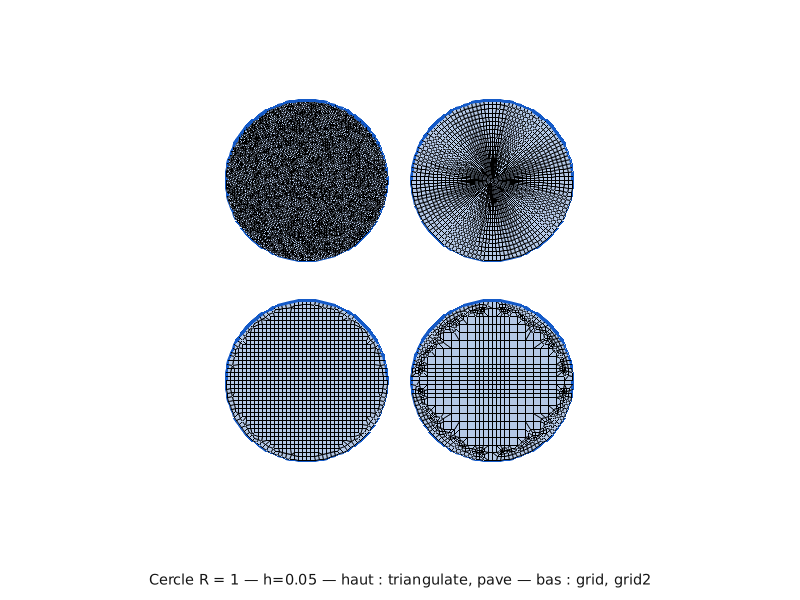
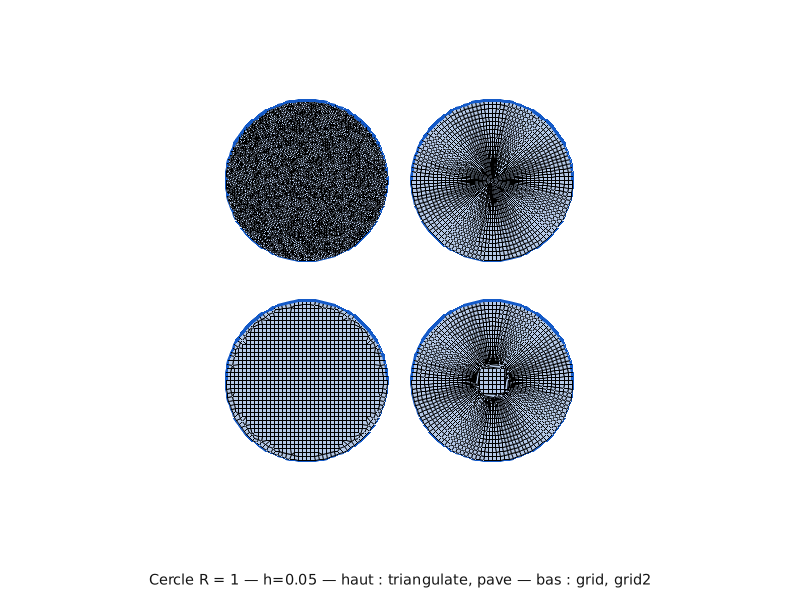
feat(grid2): abandonner au front le vide que le contour ne borde pas
L'étape 3.2 comblait tout intervalle large en le coupant en deux jusqu'à ce
qu'il ne dépasse plus deux fois le pas moyen du contour. Deux défauts :
la bissection atterrit *exactement* sur deux fois dès que le vide vaut une
puissance de deux fois la moyenne — dix mailles de la maison sortaient ainsi
deux fois trop hautes — et surtout, remplir ce vide ne crée pas de cœur.

Un vide que le contour ne borde pas est un vide qu'aucune paroi ne dicte :
les rangées qu'on y pose n'existent que pour être érodées par l'oblique qui
les traverse, et elles morcellent le travail du front au lieu de lui donner
une région propre. Entre deux et trois fois la moyenne, l'intervalle est
donc coupé en mailles entières ; **au-delà, plus rien n'est posé** et
`classify` rend la région au front d'un seul tenant.

Mesuré sur les onze formes de la batterie, tout est identique au bit près
sauf deux :

  maison, toit à deux pentes   5 triangles → 1, p5 0,644 → 0,676,
                               pire 0,479 → 0,475, et plus aucune maille
                               à deux fois la moyenne
  cercle R=1                   0,344 → 0,005

Les deux créneaux, les trois L, les deux plaques, le rectangle et le carré
arrondi ne bougent pas — vérifié aux deux finesses, celle des figures et
celle d'usage à 16 000 mailles.

Le cercle est le prix, et il est assumé : ses vides valent quinze fois le pas
moyen contre huit pour le toit de la maison, donc aucun seuil ne sépare les
[…]

Changed region(s): [[0.5, 0.48, 0.7188, 0.78]]

diff --git a/src/ops/mesh/paving/grid2.rs b/src/ops/mesh/paving/grid2.rs
@@ -181,8 +181,8 @@ impl Grid {
         let mean = (mean_of(step_x, x1 - x0), mean_of(step_y, y1 - y0));
 
         let mut grid = Grid {
-            xs: halve_the_wide(tidy_lines(sx), mean.0),
-            ys: halve_the_wide(tidy_lines(sy), mean.1),
+            xs: split_or_leave(tidy_lines(sx), mean.0),
+            ys: split_or_leave(tidy_lines(sy), mean.1),
             moved: HashMap::new(),
             mean,
         };
@@ -403,29 +403,38 @@ fn tidy_lines(mut v: Vec<f64>) -> Vec<f64> {
     v
 }
 
-/// Step 3.2: halve every interval wider than twice the mean, until none is.
+/// Step 3.2: cut an interval the contour left wide, or give it up.
 ///
 /// `mean` is the step the contour itself carries along this axis.
-fn halve_the_wide(mut lines: Vec<f64>, mean: f64) -> Vec<f64> {
+///
+/// Between two and three means, the gap is cut into whole cells of about the
+/// mean. **Beyond three, nothing is added**: a gap that wide is one the contour
+/// says nothing at all about, and filling it with rows only creates cells that
+/// exist to be eroded by whatever oblique boundary crosses them — the front
+/// then gets its work broken into slivers instead of one clean region.
+/// [`classify`] drops those cells from the core, and the front takes the region
+/// whole.
+///
+/// Measured on a house whose roof leaves 0.40 of empty height above its walls
+/// at a mean of 0.05: filling that gap cost five triangles where giving it up
+/// costs one, and the fifth percentile goes from 0.644 to 0.676.
+fn split_or_leave(lines: Vec<f64>, mean: f64) -> Vec<f64> {
     if lines.len() < 2 {
         return lines;
     }
-    loop {
-        let mut out = Vec::with_capacity(lines.len());
-        let mut split = false;
-        for w in lines.windows(2) {
-            out.push(w[0]);
-            if w[1] - w[0] > 2.0 * mean {
-                out.push(0.5 * (w[0] + w[1]));
-                split = true;
+    let mut out = vec![lines[0]];
+    for w in lines.windows(2) {
+        let (a, b) = (w[0], w[1]);
+        let span = b - a;
+        if span > 2.0 * mean && span <= 3.0 * mean {
+            let k = ((span / mean).round() as usize).max(2);
+            for i in 1..k {
+                out.push(a + span * i as f64 / k as f64);
             }
         }
-        out.push(lines[lines.len() - 1]);
-        lines = out;
-        if !split {
-            return lines;
-        }
+        out.push(b);
     }
+    out
 }
 
 /// Fill `domain` with grid cells and write them into `fab`.
@@ -752,6 +761,13 @@ fn classify(grid: &Grid, anchors: &Anchors, domain: &Domain, nx: usize, ny: usiz
     for j in 0..ny {
         for i in 0..nx {
             if cut[j * nx + i] {
+                continue;
+            }
+            // A cell `split_or_leave` gave up on: the contour said nothing
+            // about that stretch, so the front gets the region whole rather
+            // than a stack of rows that only exist to be eroded.
+            let (w, h) = (grid.xs[i + 1] - grid.xs[i], grid.ys[j + 1] - grid.ys[j]);
+            if w > 2.0 * grid.mean.0 || h > 2.0 * grid.mean.1 {
                 continue;
             }
             let q = anchors.cell(grid, i, j);

diff --git a/src/ops/mesh/grid_surface2.rs b/src/ops/mesh/grid_surface2.rs
@@ -42,16 +42,17 @@
 //! | L whose sides disagree by one node | 0.307 | **0.606** |
 //! | crenellated profile, base cut under each bar | 0.382 | **0.916** |
 //! | crenellated profile, base in one run | 0.287 | **0.651** |
-//! | house with a pitched roof | 0.304 | **0.479** |
+//! | house with a pitched roof | 0.304 | **0.475**, 1 triangle against 11 |
 //! | square with one rounded corner | 0.266 | **0.308** |
-//! | circle | **0.288**, 8 triangles | 0.344, 40 triangles |
+//! | circle | **0.288**, p5 **0.796** | 0.005 — do not use |
 //!
 //! So: **`grid_surface2` for a rectilinear shape**, all the more so when its
 //! sides were not cut at the corners facing them, and **`grid_surface` for
 //! anything curved**, where following the contour's nodes means following the
-//! accident of where its vertices fell. On a curve the two are close and both
-//! are beaten by `triangulate_surface`; the book's *Mailler une géométrie*
-//! page compares all four side by side.
+//! accident of where its vertices fell. On a curve `grid_surface2` is not a
+//! candidate at all: nothing dictates a line over most of a circle, the empty
+//! gaps run to fifteen times the mean step, and the core is given up. The
+//! book's *Mailler une géométrie* page compares all four side by side.
 //!
 //! ## When it degrades
 //!

diff --git a/src/py/ops/mesh.rs b/src/py/ops/mesh.rs
@@ -940,9 +940,10 @@ pub fn grid_surface(
 /// where its vertices happened to fall. Measured worst cell, `grid_surface`
 /// then `grid_surface2`: plate with a step off the grid 0.405 / 0.963, L with
 /// arbitrary dimensions 0.437 / 0.979, crenellated profile with its base in one
-/// run 0.287 / 0.651, house with a pitched roof 0.304 / 0.479, circle
-/// 0.288 / 0.344 but 8 triangles against 40. The book's *Mailler une géométrie*
-/// page puts all four surface meshers side by side.
+/// run 0.287 / 0.651, house with a pitched roof 0.304 / 0.475. On a **circle**
+/// the order reverses hard — 0.288 against 0.005 — and `grid_surface2` should
+/// not be used: nothing dictates a grid line over most of a curve. The book's
+/// *Mailler une géométrie* page puts all four surface meshers side by side.
 ///
 /// `size` and `band` mean what they mean for `grid_surface`.
 #[cfg_attr(feature = "stub-gen", pyo3_stub_gen::derive::gen_stub_pyfunction)]

diff --git a/book/src/mailler.md b/book/src/mailler.md
@@ -132,17 +132,26 @@ Ici le classement s'inverse, et c'est le seul endroit où il le fait.
 
 | forme | | triangulate | pave | grid | grid2 |
 |---|---|---:|---:|---:|---:|
-| maison | mailles | 1 723 | 621 | 477 | **415** |
-| | pire | 0,484 | **0,491** | 0,304 | 0,479 |
+| maison | mailles | 1 723 | 621 | 477 | **454** |
+| | pire | 0,484 | **0,491** | 0,304 | 0,475 |
 | carré arrondi | mailles | 1 866 | 678 | 445 | **420** |
 | | pire | **0,474** | 0,360 | 0,266 | 0,308 |
-| cercle R = 1 | mailles | 6 114 | 2 339 | 1 260 | **1 132** |
-| | pire | **0,424** | 0,031 | 0,288 | 0,344 |
+| cercle R = 1 | mailles | 6 114 | 2 339 | **1 260** | 2 044 |
+| | pire | **0,424** | 0,031 | **0,288** | 0,005 |
 
 Une grille ne peut pas suivre une oblique : elle la découpe en escalier, et tout
 ce qui s'en approche est rendu au paveur frontal. Sur la maison, le pavage
 épouse les deux pentes du toit et l'emporte d'un cheveu ; sur le cercle,
 `triangulate_surface` est le meilleur des quatre.
+
+**Sur une forme sans direction dominante, `grid_surface2` n'est pas un
+candidat.** Il prend l'écartement de ses lignes sur le contour, et un cercle
+n'en dicte aucun : rien ne pose de ligne entre `y = 0,24` et `y = 1`, le vide y
+vaut quinze fois l'écartement moyen, et le cœur s'effondre — 0,005, une maille
+au bord de la dégénérescence. `grid_surface`, lui, rend 0,288 avec un 5ᵉ
+centile de 0,796, de loin le meilleur des quatre. **Sur une courbe, prenez
+`grid_surface`, ou `triangulate_surface` si la qualité du pire élément
+commande.**
 
 Le cercle mérite un mot de plus. `pave_surface` y tombe à **0,031** — ses
 rangées se rejoignent au centre en une étoile à quatre branches, et c'est cette
@@ -153,18 +162,24 @@ mais il ne monte jamais non plus.
 
 ### Ce qu'il faut retenir
 
-**Le coût en mailles est le classement le plus stable, et il ne s'inverse
-jamais** : `grid_surface2` ≤ `grid_surface` < `pave_surface` <
-`triangulate_surface`, avec un facteur quatre entre les extrêmes à qualité au
-moins égale sur toute forme rectilinéaire. Pour un calcul, c'est le facteur qui
-compte juste après la qualité.
+**Le coût en mailles est le classement le plus stable** : sur les dix formes
+rectilinéaires ou peu obliques, `grid_surface2` ≤ `grid_surface` <
+`pave_surface` < `triangulate_surface`, avec un facteur quatre entre les
+extrêmes à qualité au moins égale. Pour un calcul, c'est le facteur qui compte
+juste après la qualité. Le cercle est la seule exception, et il l'est dans les
+deux colonnes à la fois : `grid_surface2` y rend **plus** de mailles pour une
+qualité effondrée, ce qui est la façon la plus nette de dire qu'il n'est pas
+fait pour ça.
 
 En pratique :
 
 - **forme rectilinéaire** — `grid_surface2`, et d'autant plus si ses côtés
   n'ont pas été coupés aux angles qui leur font face ;
-- **forme courbe ou franchement oblique** — `triangulate_surface` si la qualité
-  du pire élément commande, `pave_surface` s'il faut des quadrangles ;
+- **forme courbe** — `triangulate_surface` si la qualité du pire élément
+  commande, `grid_surface` s'il faut des quadrangles ; **jamais
+  `grid_surface2`**, qui y perd son cœur ;
+- **forme franchement oblique** — `pave_surface`, dont les rangées épousent la
+  pente ;
 - **quadrangles obligatoires** — `pave_surface` accepte `all_quad=True` et
   refuse par une erreur claire un contour dont la parité l'interdit ;
 - **triangles voulus** — `triangulate_surface`, seul à en produire par
@@ -172,16 +187,22 @@ En pratique :
 
 ### Deux limites connues
 
-**Les rangées à deux fois la moyenne.** `grid_surface2` prend l'écartement de
-ses lignes sur le contour ; là où le contour ne dit rien — le triangle du toit
-de la maison, qu'aucune paroi verticale ne borde — il comble le vide en le
-coupant en deux jusqu'à ce que l'intervalle ne dépasse plus deux fois la
-moyenne. Quand ce vide vaut une puissance de deux fois la moyenne, la coupe
-atterrit **exactement** sur deux fois : dix mailles de la maison sortent ainsi
-deux fois plus hautes que les autres. C'est la borne haute admise, et la
-corriger en coupant d'emblée en parts égales a été essayé — le maillage empire,
-parce que ces rangées supplémentaires ne servent qu'à être érodées par
-l'oblique et morcellent le travail du front.
+**Un vide que le contour ne borde pas n'est pas maillé en grille.**
+`grid_surface2` prend l'écartement de ses lignes sur le contour ; là où le
+contour ne dit rien — le triangle du toit de la maison, qu'aucune paroi
+verticale ne borde — il coupe le vide en mailles entières tant qu'il ne dépasse
+pas **trois fois** l'écartement moyen, et **l'abandonne au front au-delà**.
+Remplir un tel vide de rangées ne crée pas du cœur : ces rangées n'existent que
+pour être érodées par l'oblique qui les traverse, et elles morcellent le travail
+du front au lieu de lui donner une région propre. Mesuré sur la maison :
+l'abandon coûte **un** triangle là où le remplissage en coûtait cinq, et le 5ᵉ
+centile monte de 0,644 à 0,676.
+
+C'est aussi ce qui coûte le cercle, dont les vides valent quinze fois
+l'écartement moyen. Aucun seuil ne sépare les deux cas — abandonner un vide de
+huit moyennes abandonne a fortiori un vide de quinze — et c'est un choix
+assumé : `grid_surface2` sert les formes rectilinéaires, `grid_surface` sert les
+courbes.
 
 **Le cercle est un objectif instable.** Sur une forme sans direction dominante,
 déplacer la grille d'un millième change la pire maille du simple au décuple. Les

diff --git a/book/src/operateurs/maillage.md b/book/src/operateurs/maillage.md
@@ -1058,8 +1058,10 @@ bout. Toutes les lignes sont droites et toute maille du cœur est un rectangle.
 `grid_surface2` donne à **chaque nœud du contour la ligne qui le traverse**,
 puis :
 
-- coupe en deux tout intervalle plus large que deux fois le pas moyen que porte
-  le contour ;
+- coupe en mailles entières tout intervalle valant entre deux et trois fois le
+  pas moyen que porte le contour, et **abandonne au-delà** : un vide que le
+  contour ne borde pas revient au front d'un seul tenant plutôt qu'en rangées
+  qui n'existent que pour être érodées ;
 - **effondre arête par arête** toute bande plus mince que la moitié de ce pas —
   chaque arête se soude sur le nœud de contour d'une de ses extrémités, ou sur
   son milieu quand aucune n'en est un ;
@@ -1088,9 +1090,9 @@ ratio* :
 | L dont les côtés diffèrent d'un nœud | 0,307 | **0,606** |
 | profil crénelé, base coupée sous chaque barre | 0,382 | **0,916** |
 | profil crénelé, base d'un seul tenant | 0,287 | **0,651** |
-| maison à toit à deux pentes | 0,304 | **0,479** |
+| maison à toit à deux pentes | 0,304 | **0,475**, 1 triangle contre 11 |
 | carré à un angle arrondi | 0,266 | **0,308** |
-| cercle R = 1 | **0,288**, 8 triangles | 0,344, **40 triangles** |
+| cercle R = 1 | **0,288**, p5 **0,796** | **0,005 — à ne pas utiliser** |
 
 La comparaison des quatre mailleurs surfaciques, figures à l'appui, est sur la
 page [Mailler une géométrie](../mailler.md).
